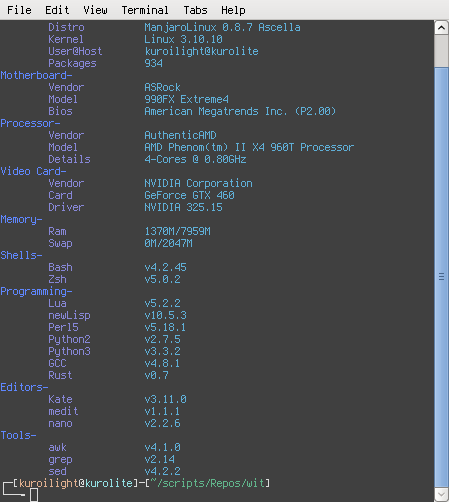
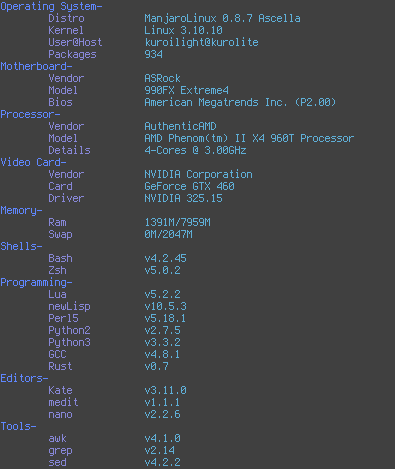
fix screenshot and readme

Changed region(s): [[0.0, 0.0, 1.0, 1.0], [0.8203, 0.2687, 0.881, 0.2985]]

diff --git a/README.md b/README.md
@@ -38,5 +38,3 @@ TLDR: do 'wit -l' to get the same functionality.
 License: MIT
 Email: kuroilight @ openmailbox.org
 ```
-
-*checkout my tool display script 'wia' (https://github.com/KuroiLight/What-Is-Available) based on this project, but written purely to display available tools.*
